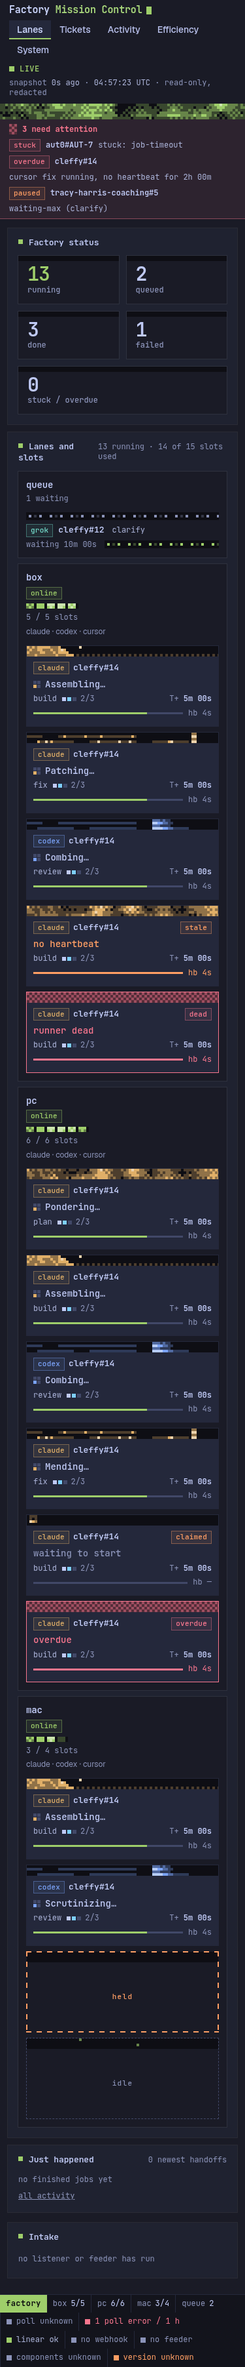
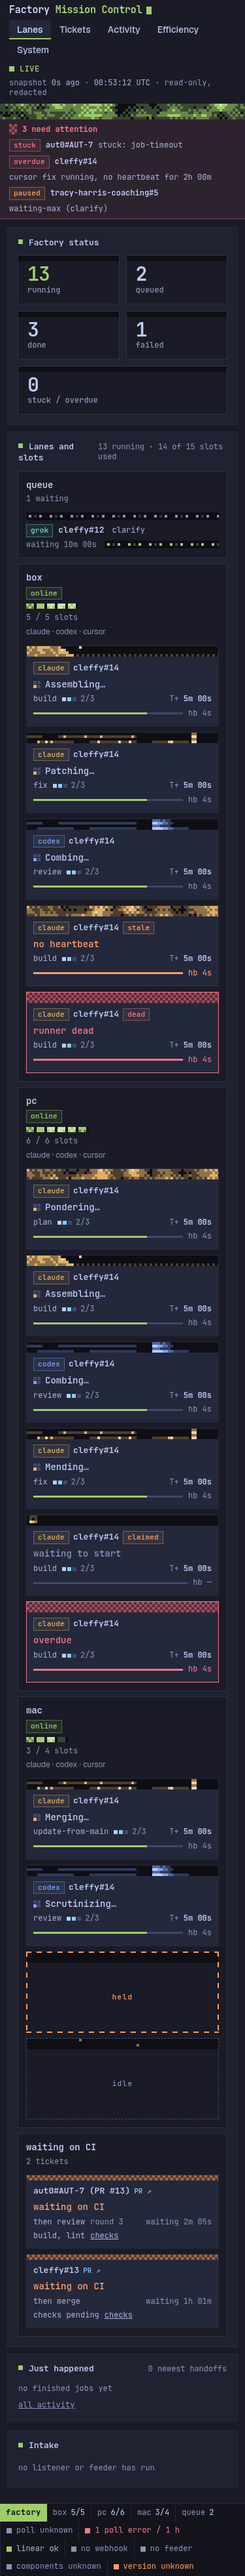
#626: feat(dashboard): draw waiting-on-CI tickets as cards below the device lanes (#627)
* Start #626: Dashboard: show waiting-on-CI tickets as job-style cards below the device lanes

* feat(dashboard): draw waiting-on-CI tickets as cards below the device lanes

Each ticket held for CI gets a job-style card: ticket and PR links, the
step it starts next with its round, the check names with a checks link,
and a ticking wait. The lane moves after every device lane.

* docs(dashboard): re-record Lanes screenshots with waiting-on-CI cards

* refactor(dashboard): name the CI next-step table STEP_AFTER_CI

* fix(dashboard): show the review round re-entry will queue on CI cards

The dispatcher records the next review round in ci_waits.next_round from
the same _approved_round re-entry uses, so a merge-queue or handed-off
ticket's CI card names round N+1 of its shipped APPROVE, not
review_round + 1. Both card renders read ci_wait.round.

* refactor(dispatch): derive re-entry and the CI card round from _completed_round

Also regenerate the dashboard golden digests after merging main.

* docs(dashboard): re-record Lanes screenshots with the CI card's recorded round

---------

diff --git a/lib/dashboard_pages/lanes.py b/lib/dashboard_pages/lanes.py
@@ -71,6 +71,10 @@ a.tile:hover,a.tile:focus-visible{border-color:var(--brand)}
 .hbar.warn i{background:var(--warn)}.hbar.bad i{background:var(--bad)}
 .tile-l4 .hbt{white-space:nowrap;color:var(--muted)}
 .tile-l4 .hbt.warn{color:var(--warn)}.tile-l4 .hbt.bad{color:var(--bad)}
+.tile.ci{min-height:0}
+.tile.ci .tile-l1 .gh{flex:none}
+.tile.ci .tile-l4{flex-wrap:wrap;gap:2px 8px;color:var(--text-2)}
+.tile.ci .tile-l4 .what{min-width:0;overflow-wrap:anywhere}
 .tile.empty{position:relative;display:flex;margin:0;flex-direction:column;background:transparent;border:1px dashed var(--line-hi)}
 .tile.empty.px-held{border-color:transparent}
 .tile.empty .lbl{flex:1 0 auto;display:flex;align-items:center;justify-content:center;
@@ -117,17 +121,20 @@ TILE_STATE: dict[str, dict] = {
 
 GLYPH_ORDER = [2, 0, 1, 3]
 
+STEP_AFTER_CI = {"ci-pending": "review", "approved-ci-pending": "merge"}
+
 # Queue speed by wait age, through the Bits rail's anchors (0:40 → 1, 6:10 → 2.5, 22:05 → 5).
 QUEUE_SPEED = [[40, 1.0], [370, 2.5], [1325, 5.0]]
 
 QUEUE_TINT = "#8b93b8"
 BELT_TINT = "#9ece6a"
+CI_TINT = "#ff9e64"
 _BAD = "#f7768e"
 
 
 def lanes_table() -> dict:
     return {"tiles": TILE_STATE, "glyph": GLYPH_ORDER, "speed": QUEUE_SPEED,
-            "queue_tint": QUEUE_TINT, "belt_tint": BELT_TINT}
+            "queue_tint": QUEUE_TINT, "belt_tint": BELT_TINT, "step_after_ci": STEP_AFTER_CI, "ci_tint": CI_TINT}
 
 
 def queue_speed(age: object) -> float:
@@ -373,21 +380,35 @@ SCRIPT = r"""
     return lane;
   }
 
+  function ciCard(r) {
+    var ci = r.ci_wait;
+    var step = LANES.step_after_ci.hasOwnProperty(ci.reason) ? LANES.step_after_ci[ci.reason] : null;
+    var card = el('div', 'tile ci');
+    add(card, PX.strip('ci-' + r.repo + '#' + r.ticket_id, {effect: 'static', tint: LANES.ci_tint, height: 8}));
+    var bodyEl = add(card, el('div', 'tile-body'));
+    var l1 = add(bodyEl, el('div', 'tile-l1'));
+    add(l1, el('span', 'ticket', ticketOf(r)));
+    addGh(l1, r);
+    add(add(bodyEl, el('div', 'tile-l2')), el('span', 'verb warn', 'waiting on CI'));
+    var l3 = add(bodyEl, el('div', 'tile-l3'));
+    if (step) add(l3, el('span', 'action', 'then ' + step));
+    if (step === 'review' && ci.round != null) add(l3, el('span', 'round', 'round ' + ci.round));
+    ticking(add(l3, el('span', 't')), ci.waiting_seconds, 'waiting ');
+    var l4 = add(bodyEl, el('div', 'tile-l4'));
+    add(l4, el('span', 'what', checksNamed(ci)));
+    var href = checksHref(r);
+    if (href) add(l4, link(null, href)).textContent = 'checks';
+    return card;
+  }
+
   function ciLane(rows) {
     var lane = el('div', 'lane');
     lane.setAttribute('data-device', 'ci-wait');
     var head = add(lane, el('div', 'lane-head'));
     add(head, el('div', 'name', 'waiting on CI'));
     add(head, el('div', 'sub', rows.length + (rows.length === 1 ? ' ticket' : ' tickets')));
-    var ul = add(add(lane, el('div', 'lane-body')), el('ul', 'qrail'));
-    rows.forEach(function (r) {
-      var li = add(ul, el('li'));
-      add(li, el('span', 'ticket', ticketOf(r)));
-      add(li, el('span', 'what', checksNamed(r.ci_wait)));
-      var href = checksHref(r);
-      if (href) add(li, link(null, href)).textContent = 'checks';
-      ticking(add(li, el('span', 'when')), r.ci_wait.waiting_seconds, 'waiting ');
-    });
+    var grid = add(lane, el('div', 'tiles'));
+    rows.forEach(function (r) { add(grid, ciCard(r)); });
     return lane;
   }
 
@@ -403,8 +424,6 @@ SCRIPT = r"""
     tileAnims = [];
     var box = add(root, el('div', 'lanes'));
     add(box, queueLane(d));
-    var held = (d.tickets || []).filter(function (t) { return t.ci_wait; });
-    if (held.length) add(box, ciLane(held));
     lanes.devices.forEach(function (dev, index) {
       var row = add(box, el('div', 'lane' + (dev.enabled ? '' : ' disabled')));
       row.setAttribute('data-device', dev.name);
@@ -439,6 +458,8 @@ SCRIPT = r"""
       var grid = add(row, el('div', 'tiles'));
       lanes.wakes.forEach(function (r, i) { add(grid, slotTile(r, i + 1)); });
     }
+    var waiting = (d.tickets || []).filter(function (t) { return t.ci_wait; });
+    if (waiting.length) add(box, ciLane(waiting));
   }
 
   function renderJustHappened(d) {
@@ -755,19 +776,34 @@ def _queue_lane(snapshot: dict) -> str:
     )
 
 
+def _ci_card(row: dict) -> str:
+    from lib.dashboard_pages.shell import px_strip
+
+    ci = row["ci_wait"]
+    step = STEP_AFTER_CI.get(ci["reason"])
+    strip = px_strip(f"ci-{row['repo']}#{row['ticket_id']}", effect="static", tint=CI_TINT, height=8)
+    line3 = (
+        (_span("action", f"then {step}") if step else "")
+        + (_span("round", f"round {ci['round']}") if step == "review" and ci.get("round") is not None else "")
+        + _span("t", "waiting " + duration(ci["waiting_seconds"]))
+    )
+    return (
+        f'<div class="tile ci">{strip}<div class="tile-body">'
+        f'<div class="tile-l1">{_span("ticket", _ticket(row))}{github_links(row)}</div>'
+        '<div class="tile-l2"><span class="verb warn">waiting on CI</span></div>'
+        f'<div class="tile-l3">{line3}</div>'
+        f'<div class="tile-l4">{_span("what", checks_named(ci))}{checks_link(row)}</div></div></div>'
+    )
+
+
 def _ci_lane(snapshot: dict) -> list[str]:
     rows = [row for row in snapshot["tickets"] if row.get("ci_wait")]
     if not rows:
         return []
-    items = "".join(
-        f'<li>{_span("ticket", _ticket(row))}{_span("what", checks_named(row["ci_wait"]))}{checks_link(row)}'
-        f'{_when(row["ci_wait"]["waiting_seconds"], "waiting ")}</li>'
-        for row in rows
-    )
     return [
         '<div class="lane" data-device="ci-wait"><div class="lane-head"><div class="name">waiting on CI</div>'
         f'<div class="sub">{len(rows)} ticket{"" if len(rows) == 1 else "s"}</div></div>'
-        f'<div class="lane-body"><ul class="qrail">{items}</ul></div></div>'
+        f'<div class="tiles">{"".join(_ci_card(row) for row in rows)}</div></div>'
     ]
 
 
@@ -777,7 +813,7 @@ def _lanes(snapshot: dict) -> str:
     devices, wakes = lane_devices(snapshot)
     used = sum(d["used"] for d in devices if d["enabled"] and not d["placeholder"] and d["slot_max"])
     total = sum(d["slot_max"] for d in devices if d["enabled"] and not d["placeholder"] and d["slot_max"])
-    rows = [_queue_lane(snapshot), *_ci_lane(snapshot)]
+    rows = [_queue_lane(snapshot)]
     for index, device in enumerate(devices):
         down = probe_down(snapshot, device["name"])
         cap = device["slot_max"]
@@ -818,6 +854,7 @@ def _lanes(snapshot: dict) -> str:
             f'<div class="name">grok wakes</div>{_chip("BOT-TO-BOT", "accent")}</div>'
             f'<div class="tiles">{"".join(_slot(row, i + 1) for i, row in enumerate(wakes))}</div></div>'
         )
+    rows.extend(_ci_lane(snapshot))
     return _panel(
         "lanes",
         "Lanes and slots",

diff --git a/tests/test_dashboard_lanes.py b/tests/test_dashboard_lanes.py
@@ -20,6 +20,8 @@ from lib.dashboard import collect_snapshot, render_pages
 from lib.dashboard_page import CSS, TILE_STATE, intake_split, queue_speed
 from tests.test_dashboard import NOW, seeded
 from tests.test_dashboard_layout import BAR, HARNESS, NODE, _no_script, _run_page, _section, needs_node
+from tests.merge_queue_support import sha
+from tests.test_ready_ci_gate import approved_then_pushed_pending
 
 STATES = {
     "plan": {"job_state": "running", "action": "plan"},
@@ -262,24 +264,47 @@ def test_queue_lane_is_still_when_empty_and_red_without_a_waiter(tmp_path: Path)
 def _held_for_ci(snapshot: dict) -> dict:
     snapshot = copy.deepcopy(snapshot)
     snapshot["tickets"][0].update(pr="13", ci_wait={
-        "reason": "ci-pending", "checks": ["build", "lint"], "waiting_seconds": 125,
+        "reason": "ci-pending", "checks": ["build", "lint"], "waiting_seconds": 125, "round": 3,
+    })
+    snapshot["tickets"][2].update(ci_wait={
+        "reason": "approved-ci-pending", "checks": [], "waiting_seconds": 3700,
     })
     return snapshot
 
 
-def _assert_ci_lane(lanes: str, ticket: dict) -> None:
-    assert re.findall(r'data-device="([^"]+)"', lanes)[:2] == ["queue", "ci-wait"]
-    lane = re.split(r'<div class="lane[ "]', lanes.split('data-device="ci-wait"')[1])[0]
-    for needle in ("waiting on CI", "1 ticket", f"#{ticket['ticket_id']}", "build, lint",
-                   'href="https://github.com/aut0-code/aut0/pull/13/checks"', "waiting 2m 0"):
-        assert needle in lane, needle
+def _ci_cards(lanes: str) -> list[str]:
+    devices = re.findall(r'data-device="([^"]+)"', lanes)
+    assert devices[-1] == "ci-wait" and devices.count("ci-wait") == 1, devices
+    lane = lanes.split('data-device="ci-wait"')[1]
+    assert "waiting on CI" in lane and "2 tickets" in lane
+    return re.split(r'<div class="tile ci', lane)[1:]
 
 
-def test_a_ready_held_for_ci_gets_a_lane_after_the_queue(tmp_path: Path) -> None:
+def _assert_ci_lane(lanes: str, snapshot: dict) -> None:
+    pending, approved = _ci_cards(lanes)
+    for needle in ("AUT-7", 'href="https://github.com/aut0-code/aut0/pull/13"', "waiting on CI", "then review",
+                   "round 3", "build, lint", 'href="https://github.com/aut0-code/aut0/pull/13/checks"',
+                   "waiting 2m 0"):
+        assert needle in pending, needle
+    for needle in ("cleffy#13", 'href="https://github.com/maxharris1/cleffy/pull/13"', "then merge",
+                   "checks pending", 'href="https://github.com/maxharris1/cleffy/pull/13/checks"', "waiting 1h 01m"):
+        assert needle in approved, needle
+    assert "round" not in approved
+
+
+def test_each_ticket_held_for_ci_gets_a_card_in_a_lane_after_the_devices(tmp_path: Path) -> None:
     base = _base(tmp_path)
     assert 'data-device="ci-wait"' not in render_pages(base)["index.html"]
     snapshot = _held_for_ci(base)
-    _assert_ci_lane(_section(_no_script(render_pages(snapshot)["index.html"]), "lanes"), snapshot["tickets"][0])
+    _assert_ci_lane(_section(_no_script(render_pages(snapshot)["index.html"]), "lanes"), snapshot)
+
+
+def test_the_ci_lane_follows_the_grok_wakes_lane_too(tmp_path: Path) -> None:
+    snapshot = _held_for_ci(_tiles(tmp_path))
+    snapshot["running"].append(_row(snapshot["running"][0], "build", job="wake-1", device=None))
+    lanes = _section(_no_script(render_pages(snapshot)["index.html"]), "lanes")
+    devices = re.findall(r'data-device="([^"]+)"', lanes)
+    assert devices[-2:] == ["grok-wakes", "ci-wait"], devices
 
 
 @needs_node
@@ -288,10 +313,28 @@ def test_the_page_script_draws_the_ci_lane_like_the_server(tmp_path: Path) -> No
     snapshot = _held_for_ci(base)
     server = _section(_no_script(render_pages(snapshot)["index.html"]), "lanes")
     script = _run_page(tmp_path, snapshot, "main", BAR + ["hud", "lanes"])["html"]["lanes"]
-    _assert_ci_lane(script, snapshot["tickets"][0])
+    _assert_ci_lane(script, snapshot)
     assert _shape(script) == _shape(server[server.index(">") + 1 : server.rindex("<")])
     bare = _run_page(tmp_path, base, "main", BAR + ["hud", "lanes"])["html"]["lanes"]
     assert 'data-device="ci-wait"' not in bare
+
+
+def _card_round(lanes: str) -> str:
+    return re.search(r'<span class="round">round (\d+)</span>', lanes.split('data-device="ci-wait"')[1]).group(1)
+
+
+@needs_node
+def test_a_ci_card_after_an_approved_round_names_the_round_the_dispatcher_queues(tmp_path: Path) -> None:
+    board, pr = approved_then_pushed_pending(tmp_path)
+    snapshot = collect_snapshot(board.queue.path, tmp_path / "unused.log", now=board.now[0])
+    server = _section(_no_script(render_pages(snapshot)["index.html"]), "lanes")
+    script = _run_page(tmp_path, snapshot, "main", BAR + ["hud", "lanes"])["html"]["lanes"]
+
+    pr.ci[sha(2)] = "success"
+    board.poll()
+    queued = json.loads(board.jobs("review")[-1]["detail"])["round"]
+    assert queued == "2/3"
+    assert _card_round(server) == _card_round(script) == "2"
 
 
 def test_probe_down_gives_a_still_red_meter(tmp_path: Path) -> None:
@@ -684,7 +727,7 @@ def test_fifteen_slots_fit_above_the_fold_at_1440x900(tmp_path: Path, browser: B
 
 
 def write_screenshots(out: Path) -> list[Path]:
-    html = _page_with_status_stub(fifteen_slot_snapshot(Path(tempfile.mkdtemp())), "index.html")
+    html = _page_with_status_stub(_held_for_ci(fifteen_slot_snapshot(Path(tempfile.mkdtemp()))), "index.html")
     chrome = Browser()
     try:
         paths = []

diff --git a/tests/test_dashboard_pages_golden.py b/tests/test_dashboard_pages_golden.py
@@ -26,25 +26,25 @@ from tests.test_dashboard import NOW, make_db, seeded
 FACADE = Path(__file__).resolve().parent.parent / "lib" / "dashboard_page.py"
 
 GOLDEN = {
[37 lines of base64/hex data omitted]
 }
 
 NAMES = (

diff --git a/lib/dispatch/ready.py b/lib/dispatch/ready.py
@@ -103,7 +103,7 @@ class ReadyMixin:
                 approved is not None and _matching_head(reported_head, approved)
             ):
                 return True, "ready-already-shipped"
-            reentry = _approved_round(shipped, review_round)
+            reentry = self._completed_round(ticket)
             if reentry + 1 > self._effective_cap(ticket):
                 self._flag_ready_after_cap(ticket, comment, reported_head)
                 return True, "ready-after-cap"
@@ -235,13 +235,15 @@ class ReadyMixin:
             result = ticket.ci.get(head) or ticket.ci.get(reported_head)
             connection.execute(
                 """
-                INSERT INTO ci_waits (repo, ticket_id, comment_id, head, reason, checks, since)
-                VALUES (?, ?, ?, ?, ?, ?, ?)
+                INSERT INTO ci_waits
+                    (repo, ticket_id, comment_id, head, reason, checks, since, next_round)
+                VALUES (?, ?, ?, ?, ?, ?, ?, ?)
                 ON CONFLICT (repo, ticket_id) DO UPDATE SET
                     comment_id = excluded.comment_id,
                     head = excluded.head,
                     reason = excluded.reason,
                     checks = excluded.checks,
+                    next_round = excluded.next_round,
                     since = CASE WHEN ci_waits.head = excluded.head
                                  THEN ci_waits.since ELSE excluded.since END
                 """,
@@ -252,8 +254,15 @@ class ReadyMixin:
                     outcome,
                     json.dumps(list(result.pending) if result is not None else []),
                     self.queue.now(),
+                    self._completed_round(ticket) + 1,
                 ),
             )
+
+    def _completed_round(self, ticket: TrackedTicket) -> int:
+        state, completed = self._review_context(ticket)
+        if state in ("handed-off", "merge-queue"):
+            return _approved_round(self._shipped_approval(ticket), completed)
+        return completed
 
     def _watch_ci_silence(self, ticket: TrackedTicket) -> None:
         key = (ticket.repo.lower(), ticket.ticket_id)

diff --git a/tests/test_ready_ci_gate.py b/tests/test_ready_ci_gate.py
@@ -178,13 +178,39 @@ def test_a_ready_held_for_pending_ci_is_recorded_until_it_is_handled(tmp_path: P
     assert board.outcome(ready) is None
     assert ci_waits(board) == [{
         "repo": "owner/repo", "ticket_id": "42", "comment_id": ready, "head": sha(1),
-        "reason": "ci-pending", "checks": list(CHECKS), "since": since,
+        "reason": "ci-pending", "checks": list(CHECKS), "since": since, "next_round": 1,
     }]
 
     pr.ci[pr.head] = "success"
     board.poll()
     assert board.outcome(ready) == "queued-review"
     assert ci_waits(board) == []
+
+
+def approved_then_pushed_pending(tmp_path: Path):
+    board = board_with(tmp_path, on=False)
+    pr = built_with_ci_pending(board, sha(1))
+    pr.ci[sha(1)] = "success"
+    board.ready(pr, sha(1))
+    board.poll()
+    board.finish("codex")
+    pr.mergeable, pr.mergeable_state = None, None
+    board.approve(pr)
+    board.poll()
+    assert board.state("42")["workflow_state"] == "merge-queue"
+    pr.push(sha(2), ci="pending")
+    board.ready(pr, sha(2))
+    board.poll()
+    return board, pr
+
+
+def test_a_ready_held_for_ci_after_an_approval_records_the_round_re_entry_queues(tmp_path: Path) -> None:
+    board, pr = approved_then_pushed_pending(tmp_path)
+    assert [(w["reason"], w["next_round"]) for w in ci_waits(board)] == [("ci-pending", 2)]
+
+    pr.ci[sha(2)] = "success"
+    board.poll()
+    assert json.loads(board.jobs("review")[-1]["detail"])["round"] == "2/3"
 
 
 def test_a_covered_ready_held_for_pending_ci_is_recorded_until_it_ships(tmp_path: Path) -> None:

diff --git a/lib/dashboard.py b/lib/dashboard.py
@@ -843,8 +843,10 @@ def rules_and_limits(chart: dict | None) -> list[dict]:
 
 def _ci_waits(connection: sqlite3.Connection, now: float) -> dict[tuple[str, str], dict]:
     found = {}
+    columns = {str(row["name"]) for row in connection.execute("PRAGMA table_info(ci_waits)")}
+    next_round = "next_round" if "next_round" in columns else "NULL"
     for row in connection.execute(
-        "SELECT repo, ticket_id, reason, checks, since FROM ci_waits"
+        f"SELECT repo, ticket_id, reason, checks, since, {next_round} AS next_round FROM ci_waits"
     ):
         try:
             names = json.loads(row["checks"])
@@ -854,6 +856,7 @@ def _ci_waits(connection: sqlite3.Connection, now: float) -> dict[tuple[str, str
             "reason": _enum(row["reason"], CI_WAIT_REASONS),
             "checks": [_clean(name, 80) for name in names] if isinstance(names, list) else [],
             "waiting_seconds": _age(now, row["since"]),
+            **({"round": int(row["next_round"])} if row["next_round"] is not None else {}),
         }
     return found
 

diff --git a/lib/dispatch/schema.py b/lib/dispatch/schema.py
@@ -470,6 +470,7 @@ class SchemaMixin:
                 )
                 """
             )
+            _add_missing_columns(connection, "ci_waits", {"next_round": "INTEGER"})
             # #83/#84: tickets that need a person (a ship that failed and
             # will not be retried, a job dedupe dropped). Shown by orch
             # status and the dashboard; cleared when the ticket moves on.
